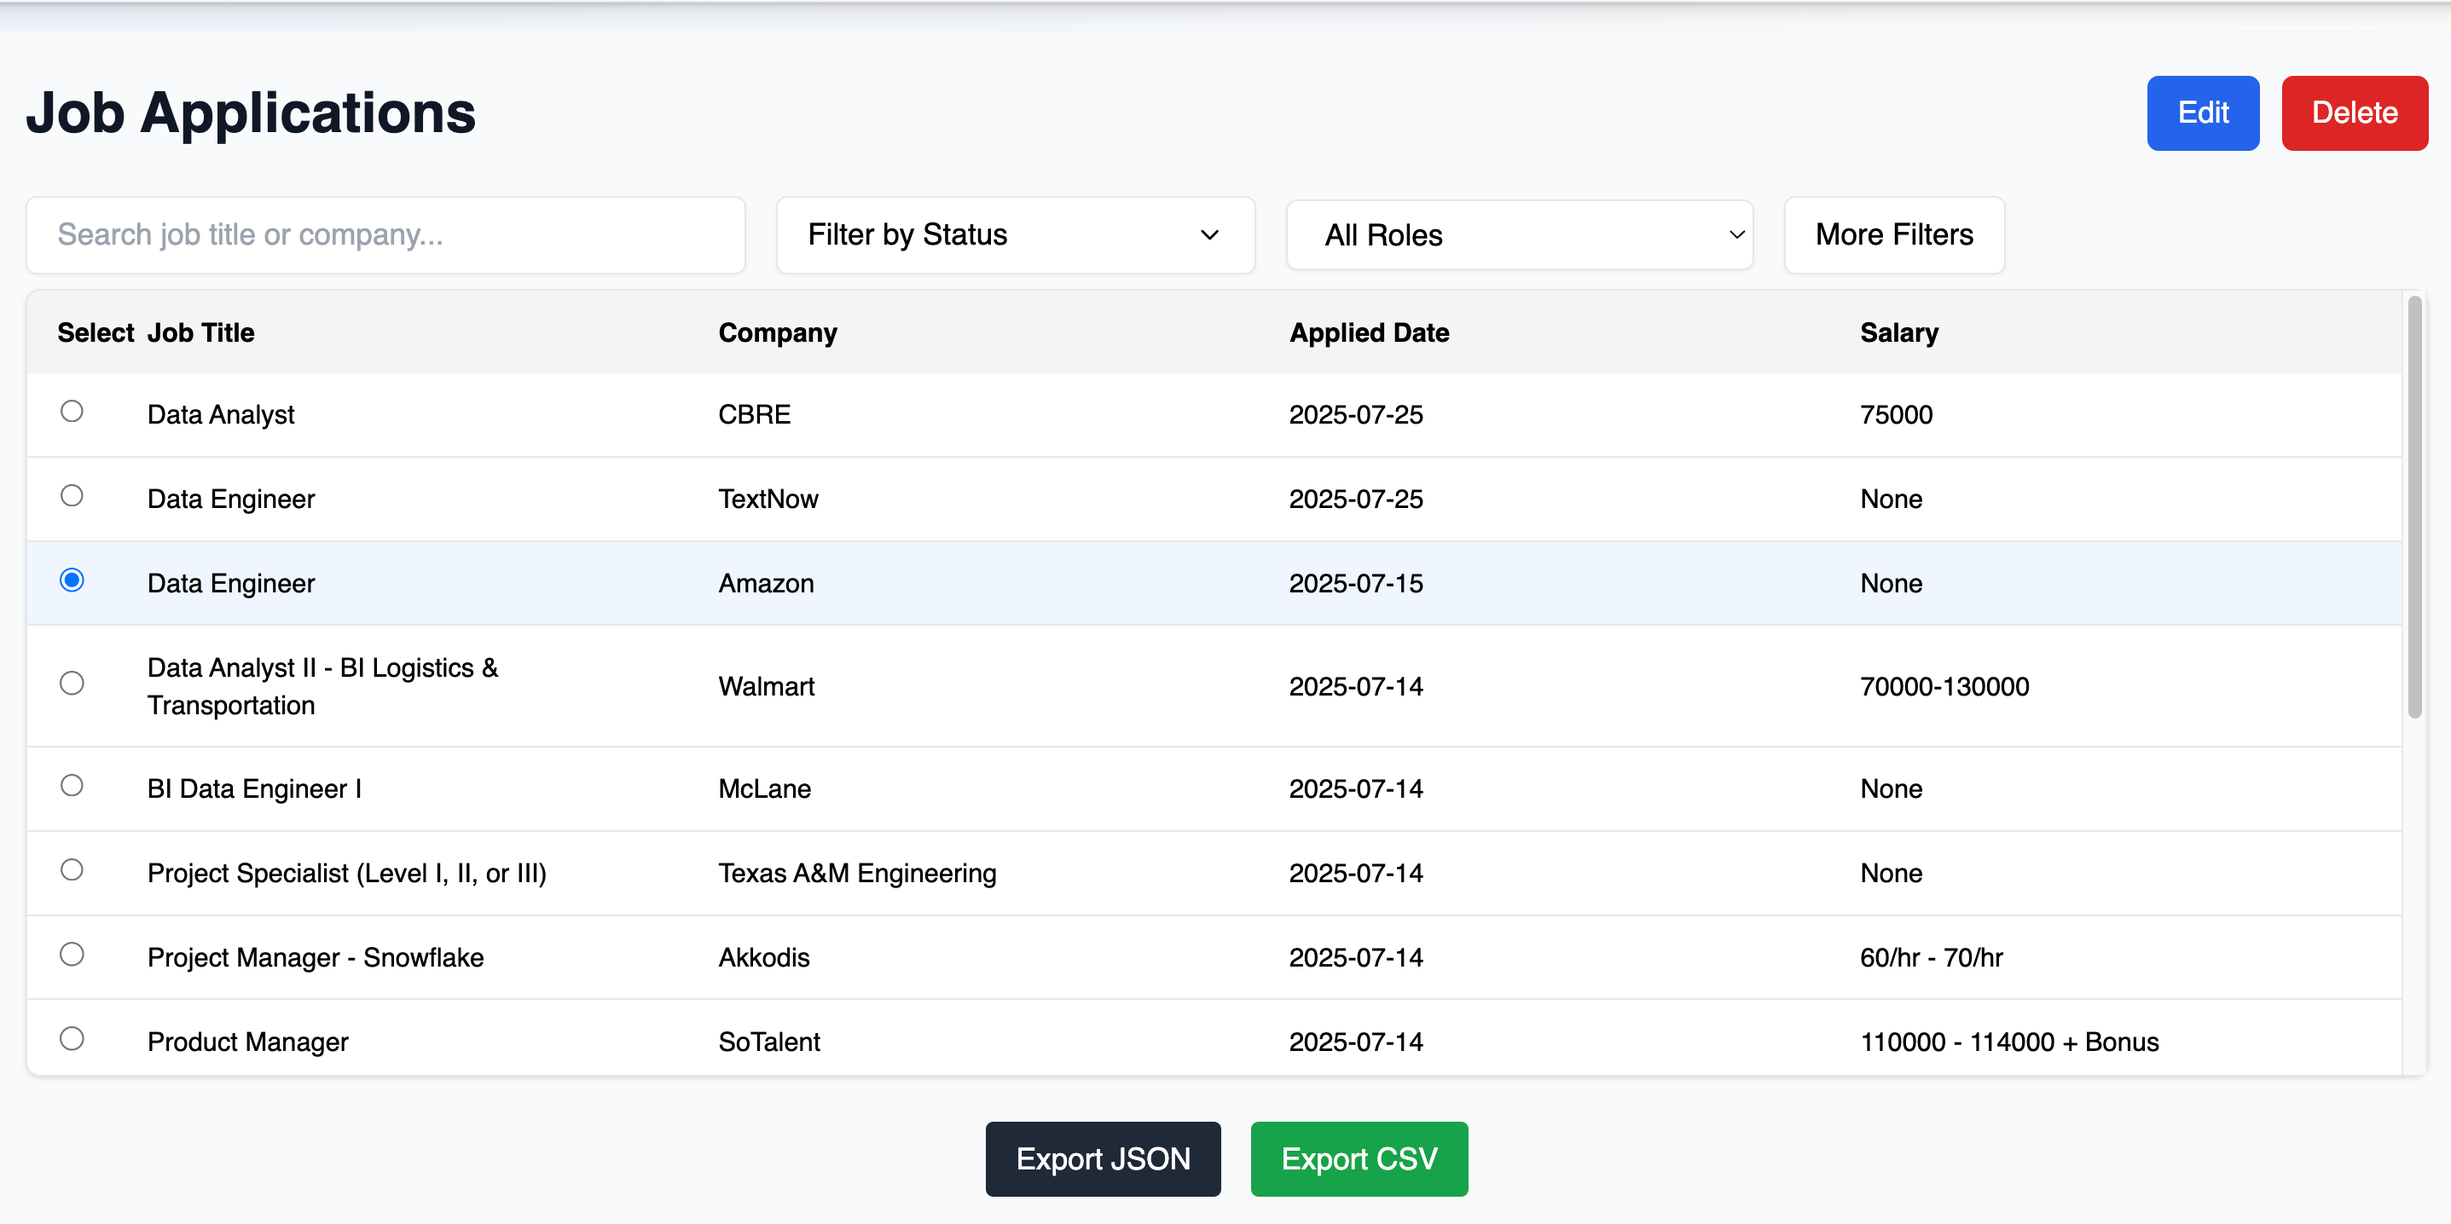
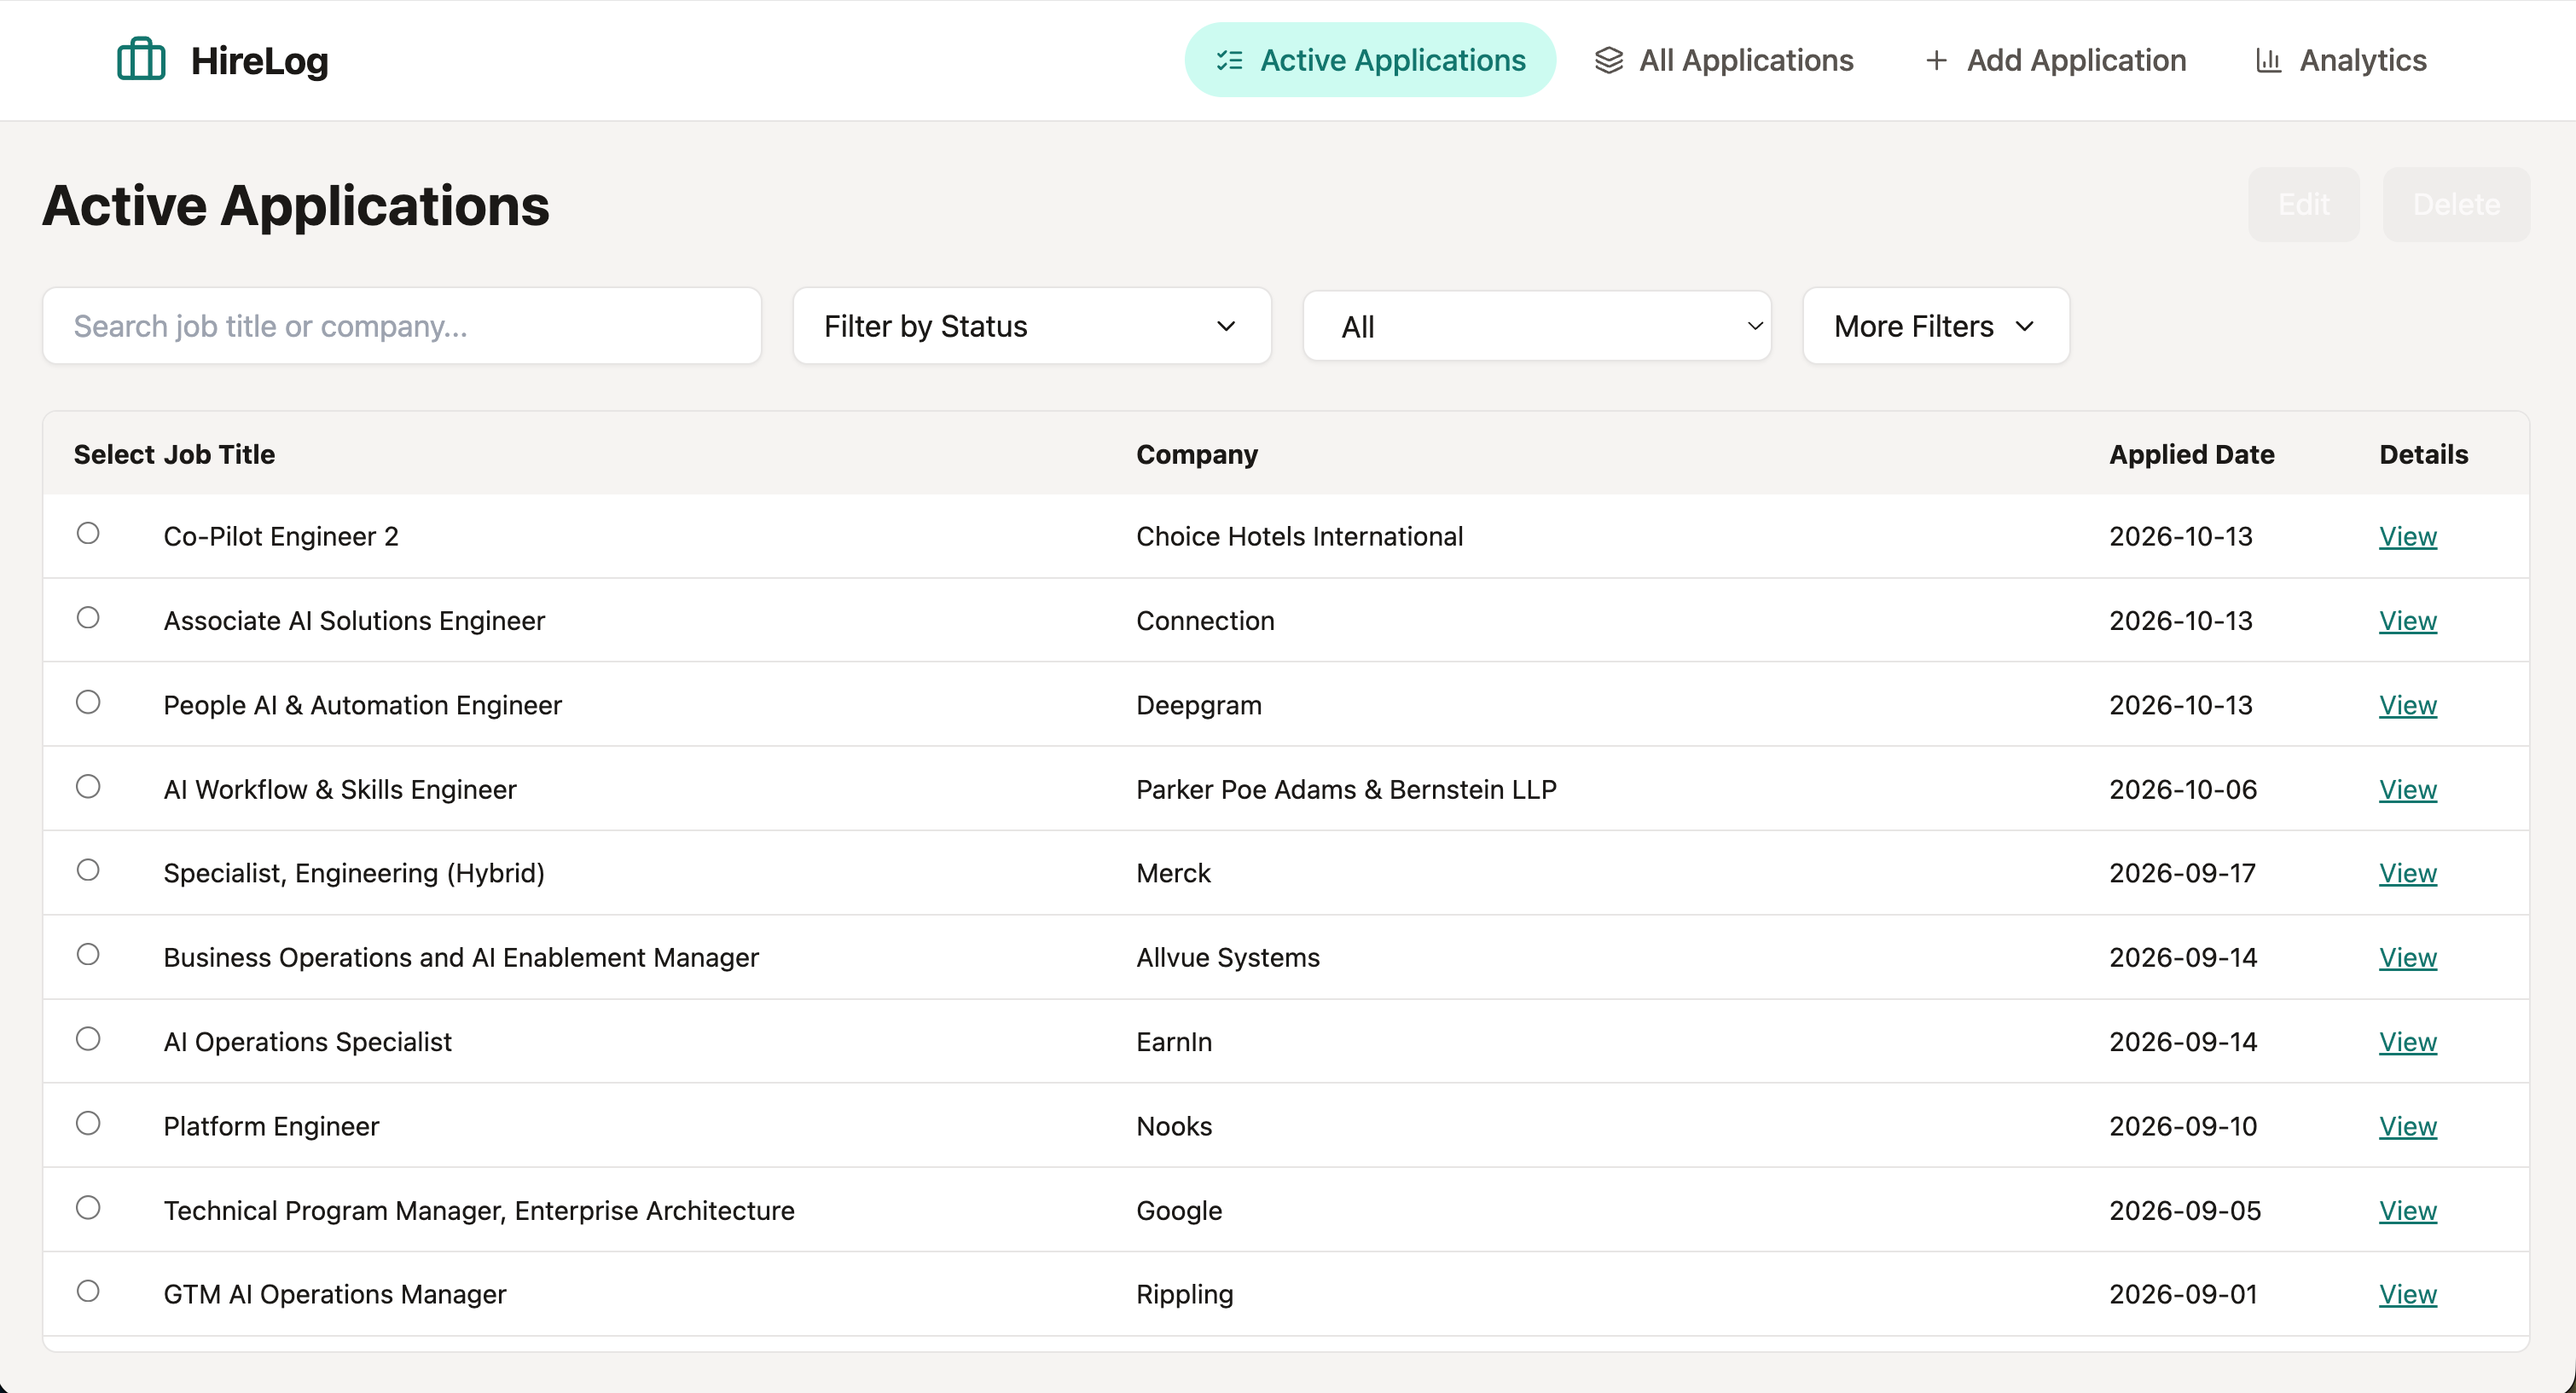
Update the README and screenshots for the current app.
Describe Active and All Applications, analytics, and local development, and replace the images with the latest screens.

diff --git a/README.md b/README.md
@@ -1,124 +1,102 @@
-# 📂 HireLog – Job Application Tracker
+# HireLog
 
-**HireLog** is a lightweight, cross-platform desktop app to track job applications, visualize application stats, and stay on top of your job hunt — all from your own device with no cloud sync or external dependencies.
+HireLog is a local desktop app for tracking job applications. Applications, notes, and stats stay on your machine in SQLite. There is no account and no cloud sync.
 
 ![HireLog Banner](./screenshots/banner.png)
 
----
+## Screenshots
 
-## 📸 Screenshots
-
-| Applications Page | Add Application | Analytics Dashboard |
-|-------------------|-----------------|---------------------|
+| Applications | Add Application | Analytics |
+| --- | --- | --- |
 | ![Applications](./screenshots/applications-page.png) | ![Add](./screenshots/add-application-page.png) | ![Analytics](./screenshots/analytics-page.png) |
 
----
+## Features
 
-## 🧭 Table of Contents
+- Log applications with role, company, resume, status, salary, location, contact, notes, and a follow-up date
+- Browse **Active Applications** (everything except rejected) and **All Applications**
+- Search by job title or company, and filter by status, role, location, resume, and date
+- Open a job posting in your default browser
+- See the last 30 days of applications, status counts, interview rate, offer rate, and follow-ups due in the next 7 days
 
-1. [Features](#-features)  
-2. [Installation](#-installation)  
-3. [Usage](#-usage)  
-4. [Tech Stack](#-tech-stack)  
-5. [Folder Structure](#-folder-structure)  
-6. [Development](#-development)  
-7. [Export Support](#-export-support)  
-8. [App Icon & Branding](#-app-icon--branding)  
-9. [About](#-about)
+## Installation
 
----
+HireLog is distributed for macOS.
 
-## ✅ Features
+1. [Download the latest `.dmg`](https://github.com/goutham2222/HireLog/releases/latest)
+2. Open it and drag **HireLog** into Applications
+3. Launch the app. No sign-in is required
 
-- 💼 Add and manage job applications locally  
-- 📊 Track application stats (daily/weekly/monthly)  
-- 📂 Export applications as `.csv` or `.json`  
-- 🔍 Filter, search, and sort applications easily  
-- 🧠 Get insights through charts and visualizations  
-- ⚡ Fast, secure, and lightweight — built with Electron + SQLite  
-- ☁ No internet required – your data stays with you  
+If macOS blocks the app:
 
----
+1. Open Terminal
+2. Run:
 
-## 🛠 Installation
-
-### Mac (.dmg)
-
-1. [Download the `.dmg` file from Releases](https://github.com/goutham2222/HireLog/releases/latest)
-2. Open and drag **HireLog** to your Applications folder  
-3. Run the app (you may need to allow it in **Gatekeeper** settings)
-
-> 💡 No setup or sign-in required. The app works fully offline.
-
-#### 🚫 Facing issues running the app?
-
-If you're unable to open the app due to macOS security settings:
-
-1. Open **Terminal**  
-2. Type the following command (but **don’t press Enter yet**):
-   ```bash
-   xattr -cr 
-3. Open your Applications folder and drag HireLog.app into Terminal
-   It should look like:
-   ```bash
-   xattr -cr /Applications/HireLog.app
-4. Press Enter and launch the app again
-
-⚠ Currently, HireLog is only available for macOS.
-Support for Windows and Linux is planned in future updates.
-
----
-
-## 🚀 Usage
-
-- Click **"Add Application"** to start logging a new job  
-- Use the **"Applications"** tab to search, filter, update, or delete entries  
-- Navigate to **"Analytics"** to explore application trends and stats  
-- Use the **"Export"** button to download your data as CSV/JSON  
-
----
-
-## 🧰 Tech Stack
-
-- ⚙ **Electron Forge** – Desktop app framework  
-- ⚛ **React + TypeScript** – Frontend logic and UI  
-- 💨 **Tailwind CSS** – Styling with utility classes  
-- 📦 **better-sqlite3** – Local database  
-- 📈 **Recharts** – Charts and analytics  
-
----
-
-## 📁 Folder Structure
-
+```bash
+xattr -cr /Applications/HireLog.app
 ```
-├── assets/ # App-level static assets (if any)
-├── node_modules/ # Node dependencies
-├── screenshots/ # App UI screenshots for README
-├── scripts/ # Utility scripts (e.g., clean-db.js)
-├── src/ # Source code
-│ ├── components/ # Reusable UI components (Form, Layout, Nav, etc.)
-│ ├── hooks/ # Custom React hooks (e.g., useJobApplications)
-│ ├── pages/ # Main app views (Applications, Add, Analytics)
-│ ├── types/ # TypeScript interfaces and types
-│ ├── utils/ # Utility functions (date, filter, stats)
-│ ├── App.tsx # Root React component
-│ ├── global.d.ts # Global type declarations
-│ ├── index.css # Tailwind global styles
-│ ├── index.html # Root HTML file for Vite
-│ └── main.tsx # React app entry point
-├── main.ts # Electron main process entry
-├── preload.ts # Electron preload script for IPC
-├── README.md # Project documentation
-├── vite.main.config.ts # Vite config for Electron main process
-├── vite.preload.config.ts # Vite config for preload script
-├── vite.renderer.config.ts # Vite config for frontend renderer
-├── tsconfig.json # TypeScript compiler config
-├── tsconfig.app.json # TypeScript config for renderer
-├── tsconfig.node.json # TypeScript config for main/preload
-├── tailwind.config.js # Tailwind CSS configuration
-├── package.json # Project metadata and scripts
-├── package-lock.json # NPM dependency lock file
-├── eslint.config.js # ESLint configuration
-├── postcss.config.cjs # PostCSS configuration
-├── config.json
+
+3. Launch HireLog again
+
+Your database is stored at:
+
+```text
+~/Library/Application Support/HireLog/applications.sqlite
 ```
+
+## Usage
+
+- **Active Applications** is the home list. Rejected applications stay on **All Applications**
+- **Add Application** saves a new row and returns to the active list
+- Select a row to edit or delete it. **View** opens the full record
+- **More Filters** opens location, resume, and sort without moving the table
+- **Analytics** shows daily, weekly, and monthly counts, a 30-day trend, and follow-ups due in the next 7 days
+
+## Development
+
+```bash
+npm install
+npm run dev
+```
+
+`npm install` rebuilds `better-sqlite3` for the Electron version in this project. `npm run dev` starts the app with Electron Forge.
+
+| Script | What it does |
+| --- | --- |
+| `npm run dev` | Start the app in development |
+| `npm run build` | Build the renderer, preload, and main process |
+| `npm run make` | Package a macOS `.dmg` |
+| `npm run clean` | Remove local build folders |
+
+## Tech stack
+
+- Electron Forge
+- React and TypeScript
+- Tailwind CSS
+- better-sqlite3
+- Recharts, for the 30-day trend
+
+## Folder structure
+
+```text
+├── assets/            App icon
+├── screenshots/       README images
+├── scripts/           Local helper scripts
+├── src/
+│   ├── components/    List, form, navigation, layout
+│   ├── hooks/         Shared application data
+│   ├── pages/         Active, All, Add, Analytics
+│   ├── types/         Application types
+│   ├── utils/         Dates and stats
+│   ├── App.tsx
+│   ├── index.css
+│   └── main.tsx
+├── main.ts            Electron main process and SQLite
+├── preload.ts         Bridge between the window and Electron
+├── vite.main.config.ts
+├── vite.preload.config.ts
+└── vite.renderer.config.ts
+```
+
+## About
+
+HireLog is a personal job-search log. The released app is macOS-only.
